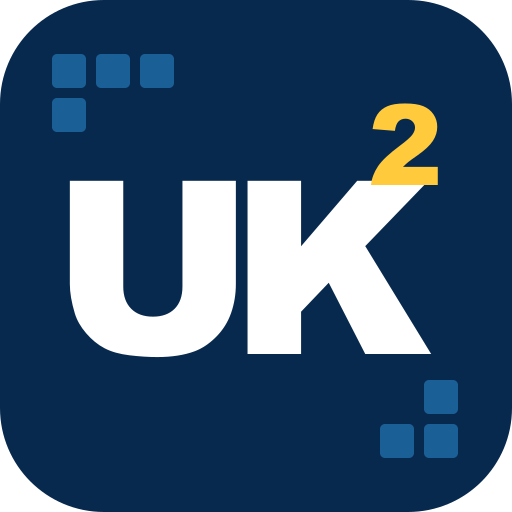
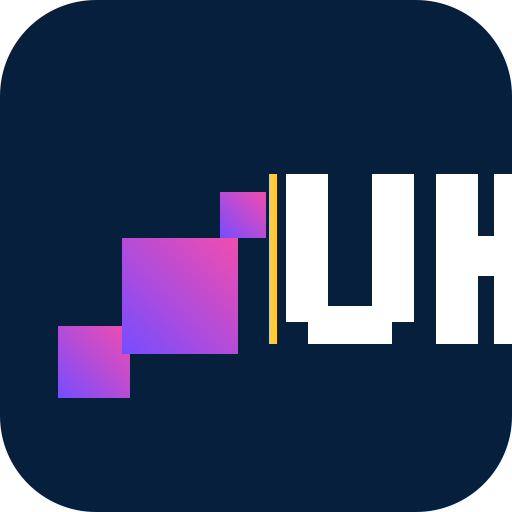
Rename site to pixelUK and configure custom domain

diff --git a/app/page.tsx b/app/page.tsx
@@ -17,7 +17,16 @@ function buildPixels(): Pixel[] {
 }
 
 const PIXELS = buildPixels();
-if (PIXELS.length !== TOTAL_PIXELS) throw new Error(`UK² map must contain exactly ${TOTAL_PIXELS} squares; generated ${PIXELS.length}.`);
+if (PIXELS.length !== TOTAL_PIXELS) throw new Error(`pixelUK map must contain exactly ${TOTAL_PIXELS} squares; generated ${PIXELS.length}.`);
+
+function PixelUkLogo({ footer = false }: { footer?: boolean }) {
+  return (
+    <span className={`pixeluk-logo${footer ? " footer-brand" : ""}`} aria-hidden="true">
+      <span className="logo-pixels"><i /><i /><i /></span>
+      <span className="logo-pixel">pixel</span><span className="logo-uk">UK</span>
+    </span>
+  );
+}
 const AVAILABLE_PIXELS = PIXELS.filter((pixel) => !pixel.owner).length;
 const PIXEL_LOOKUP = new Map(PIXELS.map((p) => [`${p.x}:${p.y}`, p]));
 const RIPPLE_CELLS = (() => {
@@ -366,7 +375,7 @@ export default function Home() {
     <main>
       <div className="ocean" aria-hidden="true"><div /><div /><div /></div>
       <header className="site-header">
-        <a className="brand" href="#home" aria-label="UK squared home"><span>UK</span><sup>2</sup></a>
+        <a className="brand" href="#home" aria-label="pixelUK home"><PixelUkLogo /></a>
         <button className="menu-button" aria-expanded={menuOpen} aria-controls="site-nav" onClick={() => setMenuOpen(!menuOpen)}>MENU</button>
         <nav id="site-nav" className={menuOpen ? "is-open" : ""} aria-label="Main navigation">
           <a href="#home" onClick={() => setMenuOpen(false)}>HOME</a>
@@ -380,7 +389,7 @@ export default function Home() {
         <div className="hero-copy">
           <p className="eyebrow"><span /> The digital land grab</p>
           <h1>CLAIM YOUR PLACE<br />ON THE <em>MAP.</em></h1>
-          <p className="intro">10,000 squares. One iconic island. Own a permanent piece of the UK² map and make your mark.</p>
+          <p className="intro">10,000 squares. One iconic island. Own a permanent piece of the pixelUK map and make your mark.</p>
           <div className="hero-actions">
             <button className="primary" onClick={() => document.querySelector(".pixel-map")?.scrollIntoView({ behavior: "smooth", block: "center" })}>Choose your squares</button>
             <a href="#about">How it works</a>
@@ -402,7 +411,7 @@ export default function Home() {
         </div>
       </section>
 
-      <section className="ticker" aria-label="How UK squared works">
+      <section className="ticker" aria-label="How pixelUK works">
         <div>CHOOSE YOUR SQUARES <span>|</span> PICK YOUR COLOUR <span>|</span> ADD YOUR LINK <span>|</span> STAY ON THE MAP <span>|</span> CHOOSE YOUR SQUARES <span>|</span></div>
       </section>
 
@@ -411,7 +420,7 @@ export default function Home() {
         <div className="section-copy">
           <p className="eyebrow dark"><span /> One map. 10,000 stories.</p>
           <h2>A small square<br />with <em>big potential.</em></h2>
-          <p>UK² is a living, clickable portrait of Britain, owned one square at a time by the people, brands and ideas shaping it.</p>
+          <p>pixelUK is a living, clickable portrait of Britain, owned one square at a time by the people, brands and ideas shaping it.</p>
         </div>
         <div className="steps">
           <article><b>01</b><h3>Choose</h3><p>Pick one square, a cluster, or plot out a pattern anywhere that is still available.</p></article>
@@ -436,10 +445,10 @@ export default function Home() {
       </section>
 
       <footer>
-        <div className="brand footer-brand"><span>UK</span><sup>2</sup></div>
+        <PixelUkLogo footer />
         <p>Claim your place on the map.</p>
-        <div><a href="#about">About</a><a href="#why-buy">Why buy</a><a href="mailto:hello@uk2.example">Contact</a></div>
-        <small>© 2026 UK² · Prototype purchase experience</small>
+        <div><a href="#about">About</a><a href="#why-buy">Why buy</a><a href="mailto:hello@pixeluk.co.uk">Contact</a></div>
+        <small>© 2026 pixelUK · Prototype purchase experience</small>
       </footer>
 
       {selected.size > 0 && (

diff --git a/app/globals.css b/app/globals.css
@@ -26,8 +26,15 @@ a { color: inherit; text-decoration: none; }
 @keyframes oceanDrift { to { transform: rotate(45deg) translate(20px, -16px); } }
 
 .site-header { height: 82px; position: sticky; top: 0; z-index: 30; padding: 0 clamp(24px, 5vw, 82px); display: flex; align-items: center; color: white; border-bottom: 1px solid var(--line); background: rgba(18,118,184,.62); backdrop-filter: blur(15px); }
-.brand { display: flex; align-items: flex-start; font-weight: 900; letter-spacing: -4px; font-size: 35px; line-height: 1; }
-.brand sup { font-size: .55em; margin: -3px 0 0 2px; letter-spacing: 0; }
+.brand { display: flex; align-items: center; }
+.pixeluk-logo { display: inline-flex; align-items: flex-end; position: relative; color: white; font-size: 31px; font-weight: 900; line-height: .8; letter-spacing: -.08em; }
+.logo-pixels { position: relative; width: .65em; height: .82em; margin-right: .08em; flex: 0 0 auto; }
+.logo-pixels i { position: absolute; width: .34em; height: .34em; background: linear-gradient(135deg, #744dff, #f04dad); image-rendering: pixelated; }
+.logo-pixels i:nth-child(1) { left: 0; bottom: 0; }
+.logo-pixels i:nth-child(2) { left: .31em; bottom: .31em; width: .52em; height: .52em; }
+.logo-pixels i:nth-child(3) { left: .73em; bottom: .73em; width: .17em; height: .17em; }
+.logo-pixel { font-family: "Courier New", Courier, monospace; font-weight: 900; transform: scaleX(.92); transform-origin: right bottom; text-shadow: 1px 0 currentColor; }
+.logo-uk { margin-left: .1em; padding-left: .13em; border-left: .1em solid #ffcb3d; color: #ffcb3d; font-family: Arial Black, Arial, sans-serif; font-size: .87em; letter-spacing: -.11em; }
 .site-header nav { position: absolute; left: 50%; transform: translateX(-50%); display: flex; gap: 34px; font-size: 13px; font-weight: 700; }
 .site-header nav a { padding: 9px 7px; position: relative; border-radius: 8px; }
 .site-header nav a::after { content: ""; position: absolute; height: 2px; bottom: 0; left: 0; right: 100%; background: white; transition: right .25s ease; }
@@ -118,7 +125,7 @@ h1 em, h2 em { color: var(--yellow); font-family: Georgia, serif; font-weight: 4
 .benefit-grid article:hover span, .benefit-grid article:focus-within span, .benefit-grid article:hover p, .benefit-grid article:focus-within p { color: var(--deep); }
 
 footer { background: #03162c; color: white; padding: 58px clamp(24px, 7vw, 110px) 28px; display: grid; grid-template-columns: auto 1fr auto; gap: 30px; align-items: center; }
-.footer-brand { font-size: 45px; }
+.footer-brand { font-size: 39px; }
 footer > p { color: rgba(255,255,255,.56); font-family: Georgia, serif; font-style: italic; }
 footer > div:nth-child(3) { display: flex; gap: 25px; font-size: 11px; font-weight: 800; text-transform: uppercase; }
 footer small { grid-column: 1/-1; padding-top: 25px; border-top: 1px solid rgba(255,255,255,.12); color: rgba(255,255,255,.4); font-size: 9px; letter-spacing: .09em; text-transform: uppercase; }
@@ -168,7 +175,7 @@ footer small { grid-column: 1/-1; padding-top: 25px; border-top: 1px solid rgba(
 }
 
 @media (max-width: 760px) {
-  .site-header { height: 68px; padding: 0 19px; }.brand { font-size: 30px; }
+  .site-header { height: 68px; padding: 0 19px; }.pixeluk-logo { font-size: 27px; }
   .menu-button { display: block; margin-left: auto; border: 1px solid rgba(255,255,255,.5); background: none; color: white; padding: 8px 11px; font-size: 10px; text-transform: uppercase; }
   .site-header nav { display: none; left: 12px; right: 12px; top: 61px; transform: none; background: var(--deep); padding: 16px; gap: 9px; box-shadow: 0 15px 30px rgba(0,0,0,.2); }.site-header nav.is-open { display: flex; }.site-header nav a { flex: 1; text-align: center; }
   .header-cta { display: none; }

diff --git a/index.html b/index.html
@@ -6,18 +6,18 @@
     <meta name="theme-color" content="#1174bd" />
     <meta name="description" content="Claim your place on the UK map. Choose from exactly 10,000 individually selectable squares." />
     <meta property="og:type" content="website" />
-    <meta property="og:title" content="UK² — Claim your place on the map" />
+    <meta property="og:title" content="pixelUK — Claim your place on the map" />
     <meta property="og:description" content="An interactive UK map made from exactly 10,000 individually selectable squares." />
-    <meta property="og:url" content="https://ryanmullenuk.github.io/UK2/" />
-    <meta property="og:image" content="https://ryanmullenuk.github.io/UK2/og.png" />
+    <meta property="og:url" content="https://pixeluk.co.uk/" />
+    <meta property="og:image" content="https://pixeluk.co.uk/og.png" />
     <meta name="twitter:card" content="summary_large_image" />
-    <meta name="twitter:title" content="UK² — Claim your place on the map" />
+    <meta name="twitter:title" content="pixelUK — Claim your place on the map" />
     <meta name="twitter:description" content="An interactive UK map made from exactly 10,000 individually selectable squares." />
-    <meta name="twitter:image" content="https://ryanmullenuk.github.io/UK2/og.png" />
-    <link rel="icon" type="image/svg+xml" href="/UK2/favicon.svg" />
-    <link rel="apple-touch-icon" sizes="180x180" href="/UK2/apple-touch-icon.png" />
-    <link rel="manifest" href="/UK2/site.webmanifest" />
-    <title>UK² — Claim your place on the map</title>
+    <meta name="twitter:image" content="https://pixeluk.co.uk/og.png" />
+    <link rel="icon" type="image/svg+xml" href="/favicon.svg" />
+    <link rel="apple-touch-icon" sizes="180x180" href="/apple-touch-icon.png" />
+    <link rel="manifest" href="/site.webmanifest" />
+    <title>pixelUK — Claim your place on the map</title>
   </head>
   <body>
     <div id="root"></div>

diff --git a/src/main.tsx b/src/main.tsx
@@ -5,7 +5,7 @@ import "../app/globals.css";
 
 const root = document.getElementById("root");
 
-if (!root) throw new Error("UK² could not find its page root.");
+if (!root) throw new Error("pixelUK could not find its page root.");
 
 createRoot(root).render(
   <StrictMode>

diff --git a/vite.config.ts b/vite.config.ts
@@ -2,6 +2,6 @@ import react from "@vitejs/plugin-react";
 import { defineConfig } from "vite";
 
 export default defineConfig({
-  base: "/UK2/",
+  base: "/",
   plugins: [react()],
 });

diff --git a/README.md b/README.md
@@ -1,4 +1,4 @@
-# UK²
+# pixelUK
 
 An interactive digital map of the United Kingdom made from exactly 10,000 individually selectable squares.
 
@@ -34,7 +34,7 @@ pnpm run build
 
 The site is a static React application hosted entirely by GitHub Pages. It has no sign-in, ChatGPT hosting or external application layer.
 
-The repository includes a GitHub Actions workflow for GitHub Pages. In the repository settings, set **Pages → Build and deployment → Source** to **GitHub Actions**. Each push to `main` then publishes the latest version at [ryanmullenuk.github.io/UK2](https://ryanmullenuk.github.io/UK2/).
+The repository includes a GitHub Actions workflow for GitHub Pages. Each push to `main` publishes the latest version at [pixeluk.co.uk](https://pixeluk.co.uk/). The `public/CNAME` file preserves the custom-domain setting during deployment.
 
 ## Connecting the live purchase flow
 
